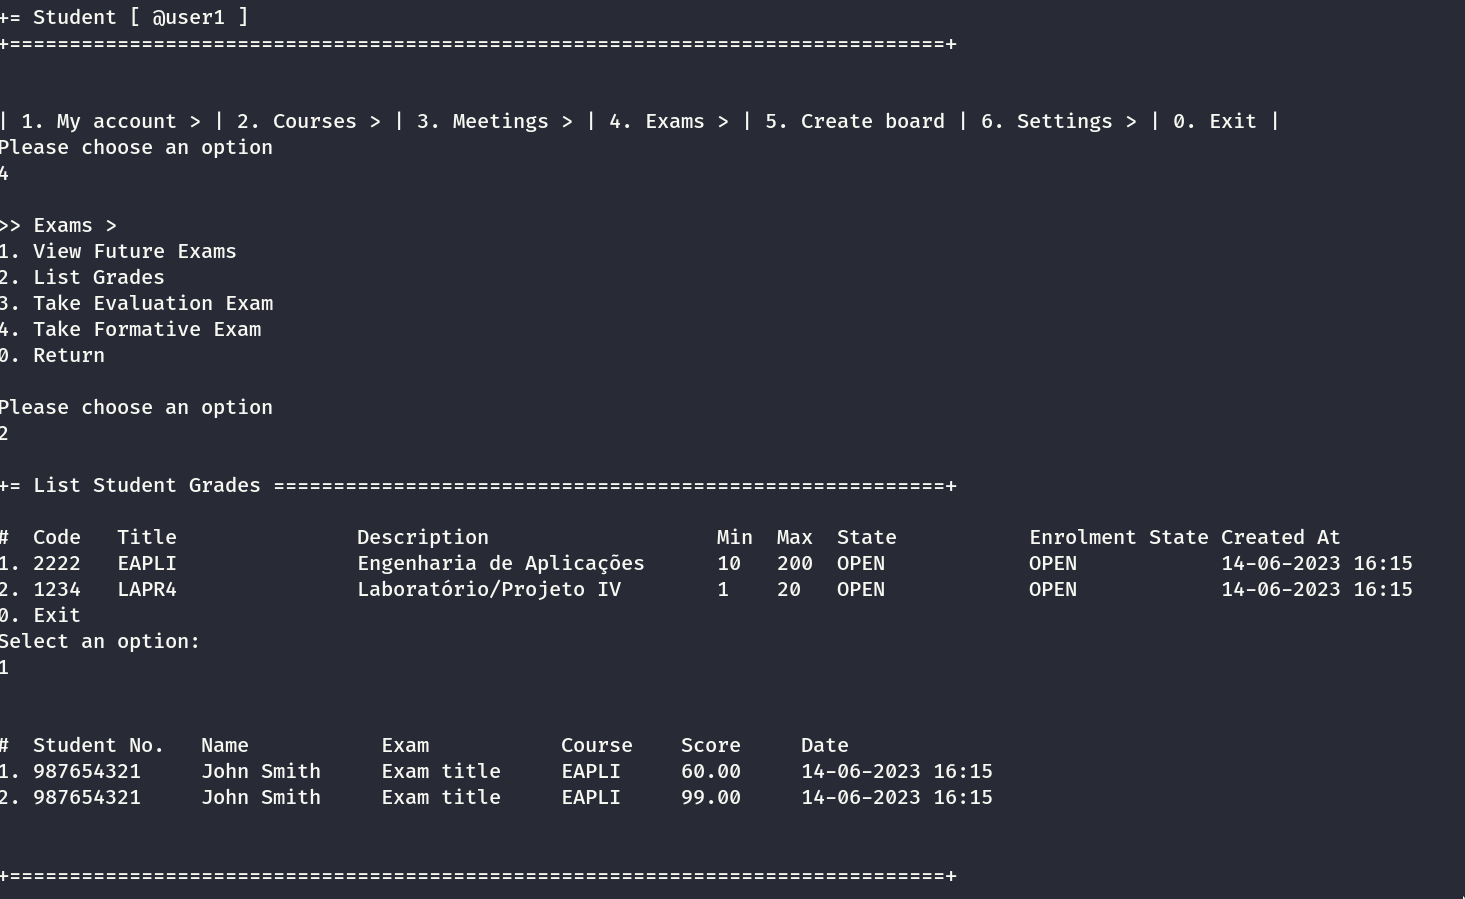
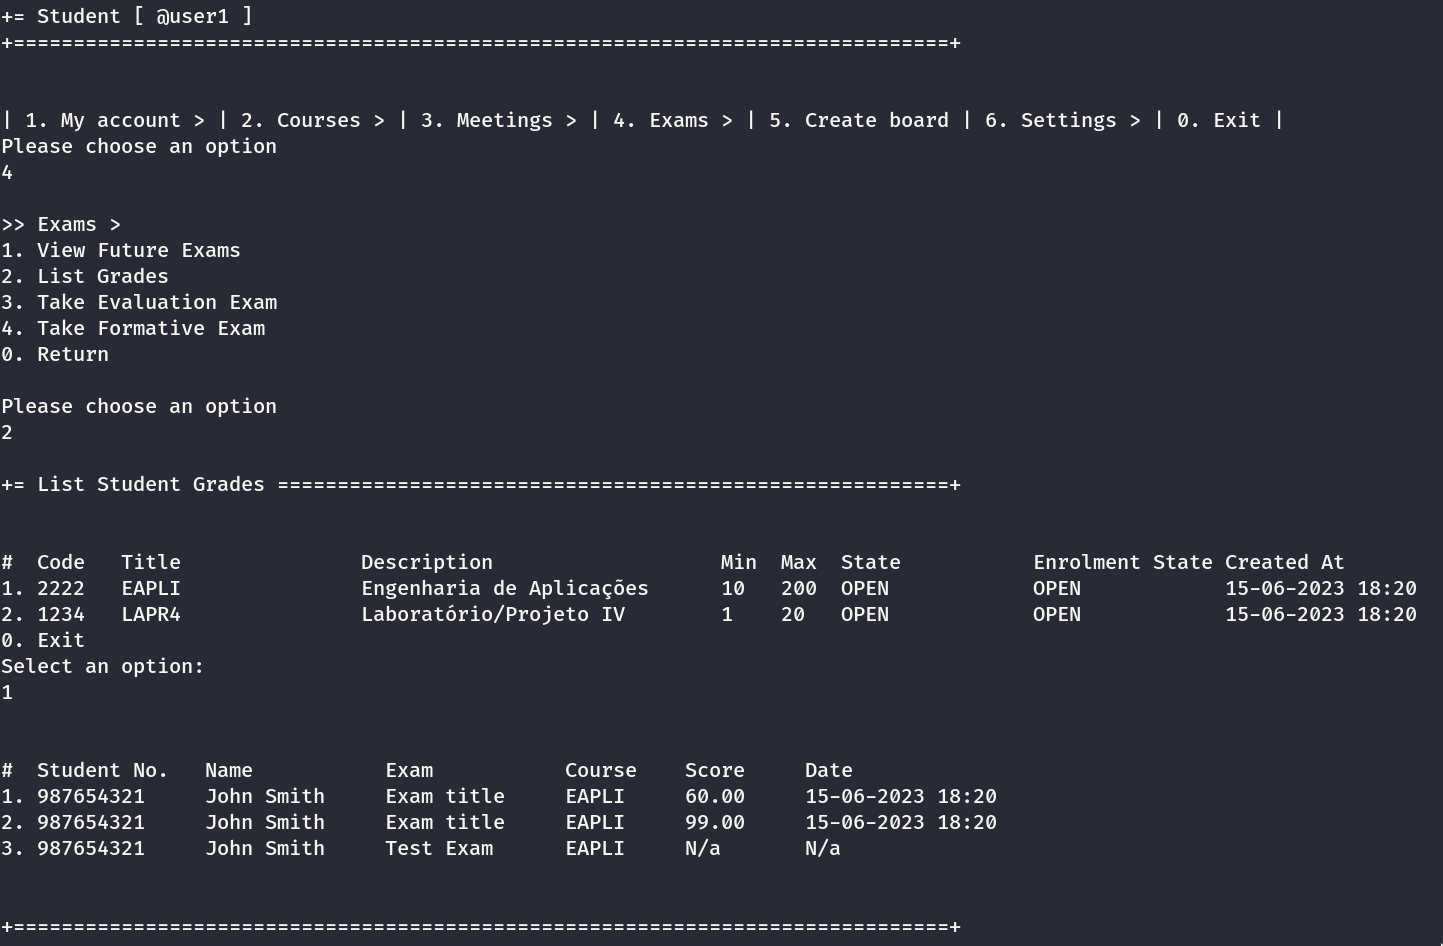
fix: fixed answer bootstrap (closes #57)

diff --git a/ecourse.bootstrappers/src/main/java/eapli/ecourse/infrastructure/bootstrapers/demo/AnswerBootstrapper.java b/ecourse.bootstrappers/src/main/java/eapli/ecourse/infrastructure/bootstrapers/demo/AnswerBootstrapper.java
@@ -9,6 +9,7 @@ import eapli.ecourse.answermanagement.domain.AnswerId;
 import eapli.ecourse.answermanagement.repositories.AnswerRepository;
 import eapli.ecourse.coursemanagement.domain.Course;
 import eapli.ecourse.coursemanagement.domain.CourseCode;
+import eapli.ecourse.eventsmanagement.domain.Duration;
 import eapli.ecourse.eventsmanagement.domain.Time;
 import eapli.ecourse.exammanagement.domain.Exam;
 import eapli.ecourse.exammanagement.domain.ExamDescription;
@@ -62,18 +63,36 @@ public class AnswerBootstrapper implements Action {
         ExamInfo.AFTER_CLOSING, ExamScore.valueOf(100.0));
 
     EvaluationExam exam2 = new EvaluationExam(lprog, teacher, ExamIdentifier.valueOf("11111"),
-      ExamTitle.valueOf("Test Exam"), ExamDescription.valueOf("description"), sections,
-      Time.valueOf(Calendar.getInstance()), Time.valueOf(Calendar.getInstance()), ExamInfo.ON_SUBMIT,
-      ExamInfo.AFTER_CLOSING, ExamScore.valueOf(100.0));
+        ExamTitle.valueOf("Test Exam 2"), ExamDescription.valueOf("description"), sections,
+        Time.valueOf(Calendar.getInstance()), Time.valueOf(Calendar.getInstance()), ExamInfo.ON_SUBMIT,
+        ExamInfo.AFTER_CLOSING, ExamScore.valueOf(100.0));
+
+    EvaluationExam exam3 = new EvaluationExam(course, teacher, ExamIdentifier.valueOf("22222"),
+        ExamTitle.valueOf("Test Exam 3"), ExamDescription.valueOf("description"), sections,
+        Time.valueOf(Calendar.getInstance()).subtractDuration(Duration.valueOf(60 * 24 * 60)),
+        Time.valueOf(Calendar.getInstance()).subtractDuration(Duration.valueOf(60 * 24 * 40)), ExamInfo.ON_SUBMIT,
+        ExamInfo.AFTER_CLOSING, ExamScore.valueOf(100.0));
+
+    EvaluationExam exam4 = new EvaluationExam(course, teacher, ExamIdentifier.valueOf("22222"),
+        ExamTitle.valueOf("Test Exam 4"), ExamDescription.valueOf("description"), sections,
+        Time.valueOf(Calendar.getInstance()).subtractDuration(Duration.valueOf(60 * 24 * 60)),
+        Time.valueOf(Calendar.getInstance()).subtractDuration(Duration.valueOf(60 * 24 * 40)), ExamInfo.ON_SUBMIT,
+        ExamInfo.AFTER_CLOSING, ExamScore.valueOf(100.0));
 
     Exam e = examRepo.save(exam);
     Exam e2 = examRepo.save(exam2);
+    Exam e3 = examRepo.save(exam3);
+    examRepo.save(exam4);
+
     Answer answer = new Answer(AnswerId.newID(), student, e, ExamScore.valueOf(60.0));
-    Answer a = new Answer(AnswerId.newID(), student, e, ExamScore.valueOf(99.0));
-    Answer a2 = new Answer(AnswerId.newID(), student, e2, ExamScore.valueOf(77.0));
+    Answer a = new Answer(AnswerId.newID(), student, e3, ExamScore.valueOf(99.0));
+    Answer a2 = new Answer(AnswerId.newID(), student, e2, ExamScore.valueOf(92.0));
+    Answer a3 = new Answer(AnswerId.newID(), student, e2, ExamScore.valueOf(77.0));
+
     answerRepo.save(answer);
     answerRepo.save(a);
     answerRepo.save(a2);
+    answerRepo.save(a3);
 
     return false;
   }

diff --git a/ecourse.core/src/main/java/eapli/ecourse/answermanagement/application/ListExamAnswerService.java b/ecourse.core/src/main/java/eapli/ecourse/answermanagement/application/ListExamAnswerService.java
@@ -3,6 +3,7 @@ package eapli.ecourse.answermanagement.application;
 import java.util.ArrayList;
 import java.util.Collection;
 import java.util.HashSet;
+import java.util.List;
 import java.util.Set;
 import java.util.stream.StreamSupport;
 
@@ -25,25 +26,24 @@ public class ListExamAnswerService {
     this.evaluationExamRepository = evaluationExamRepository;
   }
 
-  public Collection<AnswerDTO> listStudentGrades(Student student, CourseCode code) {
+  public List<AnswerDTO> listStudentGrades(Student student, CourseCode code) {
     Collection<Answer> answers = (Collection<Answer>) examAnswerRepository
-        .findAllWithStudentMecanographicNumberAndCourseCode(
-            student.identity(), code);
+        .findAllWithStudentMecanographicNumberAndCourseCode(student.identity(), code);
 
-    Collection<AnswerDTO> result = (Collection<AnswerDTO>) convertToDTO(answers);
+    List<AnswerDTO> result = (List<AnswerDTO>) convertToDTO(answers);
 
     Collection<EvaluationExam> evaluationExams = (Collection<EvaluationExam>) evaluationExamRepository
         .findAllCourseExamsWithNoAnswersFromStudent(code, student.identity());
 
     Collection<AnswerDTO> notTakenExams = createNotTakenExams(student, evaluationExams);
     if (!notTakenExams.isEmpty())
-      result.addAll(notTakenExams);
+      for (AnswerDTO a : notTakenExams)
+        result.add(a);
 
     return result;
   }
 
   public Collection<AnswerDTO> listExamGrades(Exam exam, Collection<Student> studentsInCourse) {
-
     Collection<Answer> answers = (Collection<Answer>) examAnswerRepository.findAllWithExam(exam);
 
     Collection<AnswerDTO> result = new ArrayList<>((Collection<? extends AnswerDTO>) convertToDTO(answers));
@@ -53,11 +53,10 @@ public class ListExamAnswerService {
     for (Answer examAnswer : answers)
       studentWhoAnswered.add(examAnswer.student());
 
-
     for (Student student : studentsInCourse) {
       if (!studentWhoAnswered.contains(student)) {
         result.add(new AnswerDTO(student.identity().toString(), student.user().name().toString(),
-          exam.title().toString(), exam.course().title().toString(), null, null));
+            exam.title().toString(), exam.course().title().toString(), null, null));
       }
     }
 
@@ -79,6 +78,6 @@ public class ListExamAnswerService {
   private Iterable<AnswerDTO> convertToDTO(Iterable<Answer> answers) {
     return StreamSupport.stream(answers.spliterator(), true)
         .map(Answer::toDto)
-        .collect(java.util.stream.Collectors.toUnmodifiableList());
+        .collect(java.util.stream.Collectors.toList());
   }
 }

diff --git a/ecourse.bootstrappers/src/main/java/eapli/ecourse/infrastructure/bootstrapers/demo/BoardBootstrapper.java b/ecourse.bootstrappers/src/main/java/eapli/ecourse/infrastructure/bootstrapers/demo/BoardBootstrapper.java
@@ -5,6 +5,7 @@ import java.io.InputStream;
 import java.util.HashMap;
 import java.util.LinkedHashMap;
 import java.util.Map;
+
 import org.apache.commons.io.IOUtils;
 import org.apache.logging.log4j.LogManager;
 import org.apache.logging.log4j.Logger;
@@ -27,9 +28,8 @@ public class BoardBootstrapper extends UsersBootstrapperBase implements Action {
 
   private final String IMAGE_PATH = "_p1.png";
 
-  private CreateBoardController ctrl =
-      new CreateBoardController(PersistenceContext.repositories().boards(),
-          AuthzRegistry.userService(), AuthzRegistry.authorizationService());
+  private CreateBoardController ctrl = new CreateBoardController(PersistenceContext.repositories().boards(),
+      AuthzRegistry.userService(), AuthzRegistry.authorizationService());
 
   private CreatePostItController ctrlPostIt = new CreatePostItController(
       PersistenceContext.repositories().boards(), PersistenceContext.repositories().postIts(),
@@ -100,9 +100,8 @@ public class BoardBootstrapper extends UsersBootstrapperBase implements Action {
     try {
       PostIt p2 = ctrlPostIt.createPostIt(b.identity(), 2, 2, "PostIt2", "Description", image);
 
-      ChangePostItController c =
-          new ChangePostItController(PersistenceContext.repositories().boards(),
-              PersistenceContext.repositories().postIts(), AuthzRegistry.authorizationService());
+      ChangePostItController c = new ChangePostItController(PersistenceContext.repositories().boards(),
+          PersistenceContext.repositories().postIts(), AuthzRegistry.authorizationService());
 
       c.changePostIt(p2.identity(), "PostIt2.1", 2, 2, "Description updated", null);
     } catch (IOException e) {

diff --git a/ecourse.core/src/main/java/eapli/ecourse/eventsmanagement/domain/Time.java b/ecourse.core/src/main/java/eapli/ecourse/eventsmanagement/domain/Time.java
@@ -2,6 +2,7 @@ package eapli.ecourse.eventsmanagement.domain;
 
 import java.text.SimpleDateFormat;
 import java.util.Calendar;
+
 import javax.persistence.Embeddable;
 
 import eapli.ecourse.eventsmanagement.courseclassmanagement.domain.DayInWeek;
@@ -54,6 +55,14 @@ public class Time implements ValueObject, Comparable<Time> {
     Calendar calendar = (Calendar) time.clone();
     calendar.add(Calendar.HOUR_OF_DAY, duration.hour());
     calendar.add(Calendar.MINUTE, duration.minute());
+
+    return Time.valueOf(calendar);
+  }
+
+  public Time subtractDuration(Duration duration) {
+    Calendar calendar = (Calendar) time.clone();
+    calendar.add(Calendar.HOUR_OF_DAY, -duration.hour());
+    calendar.add(Calendar.MINUTE, -duration.minute());
 
     return Time.valueOf(calendar);
   }
